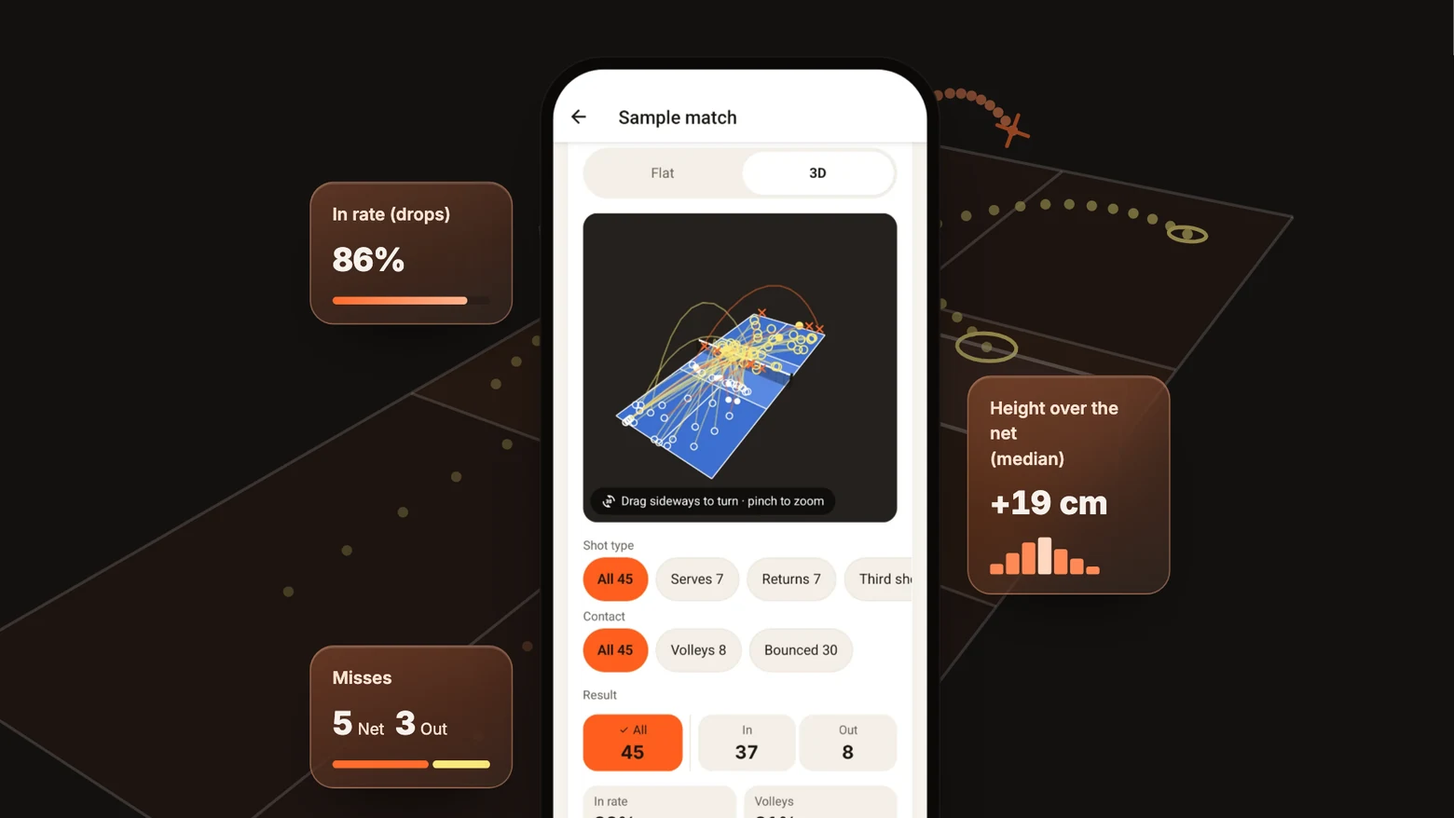
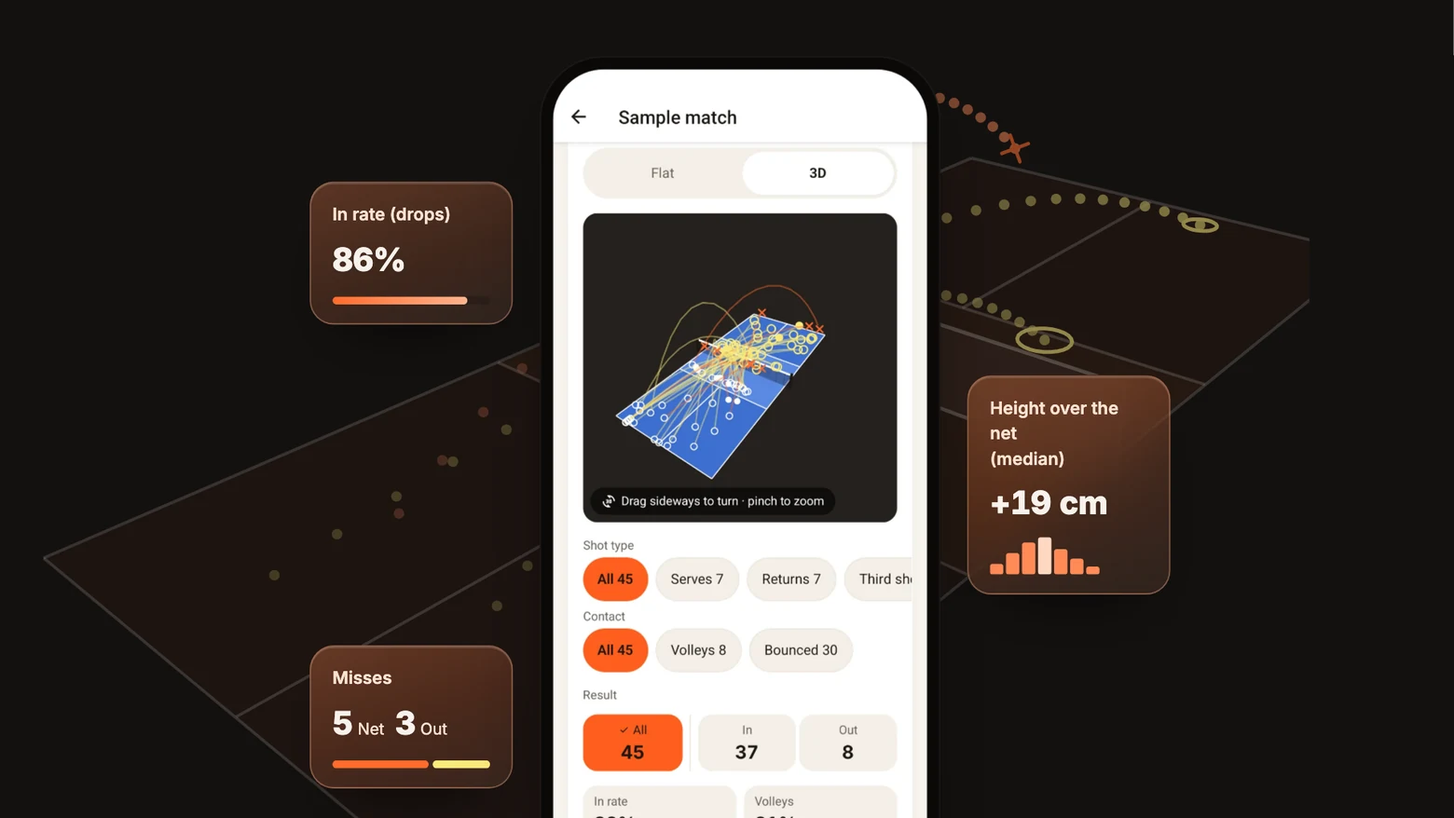
Pickle Up のページの冒頭のコートを、少し横から見る角度にして右へ寄せる（案 B1）。打球3本（ドロップ・右奥への深い球・奥へのアウト）は、スマホ・カード・文字・画面の端に隠れない位置に置き直す（1200〜1955px 幅で確認）。トップページのカードの画像も撮り直す
Claude-Session: https://claude.ai/code/session_01RcorTwHLSLi3TqpLhpw8hm

diff --git a/en/apps/pickle-up/index.html b/en/apps/pickle-up/index.html
@@ -27,7 +27,7 @@
 <link rel="preconnect" href="https://fonts.gstatic.com" crossorigin>
 <link href="https://fonts.googleapis.com/css2?family=Inter:wght@400;500;600;700;800&family=Noto+Sans+JP:wght@400;500;700;800&display=swap" rel="stylesheet">
 <link rel="stylesheet" href="https://cdnjs.cloudflare.com/ajax/libs/remixicon/4.6.0/remixicon.min.css">
-<link rel="stylesheet" href="/assets/css/apps/pickle-up.css?v=40">
+<link rel="stylesheet" href="/assets/css/apps/pickle-up.css?v=41">
 </head>
 <body class="page-home">
 <header class="app-header over-hero">
@@ -59,7 +59,7 @@
 </header>
 <main>
 <section class="hero">
-<svg class="court-lines hero-court" viewBox="0 0 1200 700" preserveAspectRatio="xMidYMid slice" aria-hidden="true" focusable="false"><path d="M258.6 474.0 L722.6 775.9 L1188.7 164.1 L897.6 106.5 Z" fill="#FF6B2C" fill-opacity=".07"/><path d="M589.3 283.8 L986.8 429.1 L1109.4 268.2 L769.8 180.0 Z" fill="#FF6B2C" fill-opacity=".07"/><line x1="259" y1="474" x2="723" y2="776" stroke="#F7F2EC" stroke-opacity=".28" stroke-width="2"/><line x1="898" y1="106" x2="1189" y2="164" stroke="#F7F2EC" stroke-opacity=".28" stroke-width="2"/><line x1="259" y1="474" x2="898" y2="106" stroke="#F7F2EC" stroke-opacity=".28" stroke-width="2"/><line x1="723" y1="776" x2="1189" y2="164" stroke="#F7F2EC" stroke-opacity=".28" stroke-width="2"/><line x1="589" y1="284" x2="987" y2="429" stroke="#F7F2EC" stroke-opacity=".28" stroke-width="2"/><line x1="770" y1="180" x2="1109" y2="268" stroke="#F7F2EC" stroke-opacity=".28" stroke-width="2"/><line x1="450" y1="598" x2="764" y2="348" stroke="#F7F2EC" stroke-opacity=".28" stroke-width="2"/><line x1="923" y1="220" x2="1032" y2="133" stroke="#F7F2EC" stroke-opacity=".28" stroke-width="2"/><g class="hero-shots"><circle class="start" cx="646.7" cy="277.7" r="3.6" fill="#FCE97A" fill-opacity="0.44"/><circle cx="660.6" cy="262.4" r="3.6" fill="#FCE97A" fill-opacity="0.45"/><circle cx="674.7" cy="248.3" r="3.6" fill="#FCE97A" fill-opacity="0.46"/><circle cx="688.8" cy="235.4" r="3.6" fill="#FCE97A" fill-opacity="0.46"/><circle cx="703.0" cy="223.8" r="3.6" fill="#FCE97A" fill-opacity="0.47"/><circle cx="717.2" cy="213.5" r="3.6" fill="#FCE97A" fill-opacity="0.48"/><circle cx="731.4" cy="204.4" r="3.6" fill="#FCE97A" fill-opacity="0.48"/><circle cx="745.6" cy="196.6" r="3.6" fill="#FCE97A" fill-opacity="0.49"/><circle cx="759.8" cy="190.1" r="3.6" fill="#FCE97A" fill-opacity="0.50"/><circle cx="773.8" cy="184.9" r="3.6" fill="#FCE97A" fill-opacity="0.50"/><circle cx="787.8" cy="180.9" r="3.6" fill="#FCE97A" fill-opacity="0.51"/><circle cx="801.6" cy="178.2" r="3.6" fill="#FCE97A" fill-opacity="0.52"/><circle cx="815.2" cy="176.6" r="3.6" fill="#FCE97A" fill-opacity="0.52"/><circle cx="828.7" cy="176.0" r="3.6" fill="#FCE97A" fill-opacity="0.53"/><circle cx="841.9" cy="176.5" r="3.6" fill="#FCE97A" fill-opacity="0.54"/><circle cx="855.0" cy="178.0" r="3.6" fill="#FCE97A" fill-opacity="0.54"/><circle cx="867.8" cy="180.5" r="3.6" fill="#FCE97A" fill-opacity="0.55"/><circle cx="880.3" cy="184.0" r="3.6" fill="#FCE97A" fill-opacity="0.56"/><circle cx="892.6" cy="188.4" r="3.6" fill="#FCE97A" fill-opacity="0.56"/><circle cx="904.7" cy="193.7" r="3.6" fill="#FCE97A" fill-opacity="0.57"/><circle cx="916.4" cy="199.8" r="3.6" fill="#FCE97A" fill-opacity="0.58"/><circle cx="927.8" cy="206.8" r="3.6" fill="#FCE97A" fill-opacity="0.59"/><circle cx="939.0" cy="214.5" r="3.6" fill="#FCE97A" fill-opacity="0.59"/><circle cx="949.8" cy="223.0" r="3.6" fill="#FCE97A" fill-opacity="0.60"/><circle cx="960.4" cy="232.2" r="3.6" fill="#FCE97A" fill-opacity="0.61"/><circle cx="970.6" cy="242.0" r="3.6" fill="#FCE97A" fill-opacity="0.62"/><circle cx="980.5" cy="252.5" r="3.6" fill="#FCE97A" fill-opacity="0.62"/><path class="mark" d="M999.0 257.5 L1000.4 255.2 L1000.6 252.7 L999.3 250.3 L996.8 248.0 L993.2 246.0 L988.8 244.5 L983.8 243.6 L978.7 243.2 L973.6 243.4 L969.0 244.3 L965.2 245.7 L962.3 247.6 L960.7 249.8 L960.4 252.2 L961.4 254.7 L963.8 257.0 L967.4 259.1 L971.8 260.7 L976.9 261.7 L982.3 262.1 L987.5 261.8 L992.3 260.9 L996.2 259.4 Z" fill="none" stroke="#FCE97A" stroke-width="2.6"/><circle class="start" cx="505.5" cy="418.9" r="3.6" fill="#FCE97A" fill-opacity="0.35"/><circle cx="545.3" cy="390.9" r="3.6" fill="#FCE97A" fill-opacity="0.36"/><circle cx="583.4" cy="364.9" r="3.6" fill="#FCE97A" fill-opacity="0.38"/><circle cx="619.7" cy="340.8" r="3.6" fill="#FCE97A" fill-opacity="0.39"/><circle cx="654.3" cy="318.6" r="3.6" fill="#FCE97A" fill-opacity="0.41"/><circle cx="687.4" cy="298.0" r="3.6" fill="#FCE97A" fill-opacity="0.42"/><circle cx="719.1" cy="279.0" r="3.6" fill="#FCE97A" fill-opacity="0.44"/><circle cx="749.2" cy="261.6" r="3.6" fill="#FCE97A" fill-opacity="0.45"/><circle cx="778.1" cy="245.6" r="3.6" fill="#FCE97A" fill-opacity="0.47"/><circle cx="805.6" cy="230.9" r="3.6" fill="#FCE97A" fill-opacity="0.48"/><circle cx="831.9" cy="217.6" r="3.6" fill="#FCE97A" fill-opacity="0.50"/><circle cx="857.0" cy="205.4" r="3.6" fill="#FCE97A" fill-opacity="0.52"/><circle cx="881.0" cy="194.3" r="3.6" fill="#FCE97A" fill-opacity="0.54"/><circle cx="903.9" cy="184.3" r="3.6" fill="#FCE97A" fill-opacity="0.55"/><circle cx="925.8" cy="175.7" r="3.6" fill="#FCE97A" fill-opacity="0.57"/><circle cx="946.7" cy="168.7" r="3.6" fill="#FCE97A" fill-opacity="0.59"/><circle cx="966.6" cy="163.3" r="3.6" fill="#FCE97A" fill-opacity="0.61"/><circle cx="985.5" cy="159.4" r="3.6" fill="#FCE97A" fill-opacity="0.63"/><circle cx="1003.4" cy="156.8" r="3.6" fill="#FCE97A" fill-opacity="0.65"/><circle cx="1020.5" cy="155.5" r="3.6" fill="#FCE97A" fill-opacity="0.67"/><circle cx="1036.7" cy="155.4" r="3.6" fill="#FCE97A" fill-opacity="0.69"/><circle cx="1052.0" cy="156.5" r="3.6" fill="#FCE97A" fill-opacity="0.71"/><circle cx="1066.5" cy="158.5" r="3.6" fill="#FCE97A" fill-opacity="0.73"/><circle cx="1080.3" cy="161.6" r="3.6" fill="#FCE97A" fill-opacity="0.75"/><circle cx="1093.3" cy="165.5" r="3.6" fill="#FCE97A" fill-opacity="0.77"/><circle cx="1105.5" cy="170.3" r="3.6" fill="#FCE97A" fill-opacity="0.79"/><circle cx="1117.1" cy="175.8" r="3.6" fill="#FCE97A" fill-opacity="0.81"/><path class="mark" d="M1129.3 178.4 L1129.9 177.2 L1129.5 176.0 L1128.4 174.7 L1126.4 173.5 L1123.9 172.5 L1120.9 171.7 L1117.6 171.2 L1114.3 171.0 L1111.2 171.1 L1108.5 171.5 L1106.4 172.3 L1105.0 173.3 L1104.4 174.4 L1104.6 175.7 L1105.7 177.0 L1107.6 178.2 L1110.1 179.3 L1113.2 180.1 L1116.5 180.6 L1119.9 180.8 L1123.0 180.7 L1125.8 180.2 L1127.9 179.4 Z" fill="none" stroke="#FCE97A" stroke-width="2.6"/><circle class="start" cx="597.3" cy="586.1" r="3.6" fill="#FF8A57" fill-opacity="0.32"/><circle cx="634.4" cy="517.0" r="3.6" fill="#FF8A57" fill-opacity="0.34"/><circle cx="668.1" cy="456.1" r="3.6" fill="#FF8A57" fill-opacity="0.35"/><circle cx="698.8" cy="402.4" r="3.6" fill="#FF8A57" fill-opacity="0.37"/><circle cx="726.7" cy="354.9" r="3.6" fill="#FF8A57" fill-opacity="0.39"/><circle cx="752.3" cy="313.1" r="3.6" fill="#FF8A57" fill-opacity="0.41"/><circle cx="775.6" cy="276.1" r="3.6" fill="#FF8A57" fill-opacity="0.43"/><circle cx="797.1" cy="243.6" r="3.6" fill="#FF8A57" fill-opacity="0.45"/><circle cx="816.8" cy="215.0" r="3.6" fill="#FF8A57" fill-opacity="0.47"/><circle cx="834.9" cy="189.9" r="3.6" fill="#FF8A57" fill-opacity="0.49"/><circle cx="851.7" cy="167.9" r="3.6" fill="#FF8A57" fill-opacity="0.51"/><circle cx="867.1" cy="148.8" r="3.6" fill="#FF8A57" fill-opacity="0.54"/><circle cx="881.4" cy="132.2" r="3.6" fill="#FF8A57" fill-opacity="0.56"/><circle cx="894.6" cy="117.8" r="3.6" fill="#FF8A57" fill-opacity="0.58"/><circle cx="906.8" cy="105.9" r="3.6" fill="#FF8A57" fill-opacity="0.61"/><circle cx="918.1" cy="96.6" r="3.6" fill="#FF8A57" fill-opacity="0.63"/><circle cx="928.6" cy="89.5" r="3.6" fill="#FF8A57" fill-opacity="0.66"/><circle cx="938.2" cy="84.5" r="3.6" fill="#FF8A57" fill-opacity="0.68"/><circle cx="947.2" cy="81.4" r="3.6" fill="#FF8A57" fill-opacity="0.71"/><circle cx="955.5" cy="80.0" r="3.6" fill="#FF8A57" fill-opacity="0.74"/><circle cx="963.1" cy="80.1" r="3.6" fill="#FF8A57" fill-opacity="0.76"/><circle cx="970.2" cy="81.6" r="3.6" fill="#FF8A57" fill-opacity="0.79"/><circle cx="976.7" cy="84.3" r="3.6" fill="#FF8A57" fill-opacity="0.82"/><circle cx="982.7" cy="88.1" r="3.6" fill="#FF8A57" fill-opacity="0.85"/><circle cx="988.3" cy="93.0" r="3.6" fill="#FF8A57" fill-opacity="0.88"/><circle cx="993.4" cy="98.7" r="3.6" fill="#FF8A57" fill-opacity="0.90"/><circle cx="998.2" cy="105.3" r="3.6" fill="#FF8A57" fill-opacity="0.93"/><path class="mark" d="M987.7 101.5 L1008.7 109.1 M994.3 115.8 L1002.0 94.8" stroke="#FF6B2C" stroke-width="2.6" stroke-linecap="round"/></g><path d="M682.3 223.9 L677.1 170.9 L1075.6 278.4 L1067.8 341.0 Z" fill="#F7F2EC" fill-opacity=".06" stroke="#F7F2EC" stroke-opacity=".4" stroke-width="2.5" stroke-linejoin="round"/></svg>
+<svg class="court-lines hero-court" viewBox="0 0 1200 700" preserveAspectRatio="xMidYMid slice" aria-hidden="true" focusable="false"><path d="M339.5 396.5 L657.6 660.5 L1239.0 188.6 L969.9 124.4 Z" fill="#FF6B2C" fill-opacity=".07"/><path d="M647.8 263.4 L968.9 407.8 L1129.3 277.6 L831.9 183.9 Z" fill="#FF6B2C" fill-opacity=".07"/><line x1="339" y1="396" x2="658" y2="661" stroke="#F7F2EC" stroke-opacity=".28" stroke-width="2"/><line x1="970" y1="124" x2="1239" y2="189" stroke="#F7F2EC" stroke-opacity=".28" stroke-width="2"/><line x1="339" y1="396" x2="970" y2="124" stroke="#F7F2EC" stroke-opacity=".28" stroke-width="2"/><line x1="658" y1="661" x2="1239" y2="189" stroke="#F7F2EC" stroke-opacity=".28" stroke-width="2"/><line x1="648" y1="263" x2="969" y2="408" stroke="#F7F2EC" stroke-opacity=".28" stroke-width="2"/><line x1="832" y1="184" x2="1129" y2="278" stroke="#F7F2EC" stroke-opacity=".28" stroke-width="2"/><line x1="470" y1="504" x2="787" y2="326" stroke="#F7F2EC" stroke-opacity=".28" stroke-width="2"/><line x1="964" y1="226" x2="1092" y2="154" stroke="#F7F2EC" stroke-opacity=".28" stroke-width="2"/><g class="hero-shots"><circle class="start" cx="647.4" cy="428.6" r="3.6" fill="#FCE97A" fill-opacity="0.35"/><circle cx="668.1" cy="401.3" r="3.6" fill="#FCE97A" fill-opacity="0.36"/><circle cx="688.4" cy="376.1" r="3.6" fill="#FCE97A" fill-opacity="0.37"/><circle cx="708.2" cy="353.0" r="3.6" fill="#FCE97A" fill-opacity="0.38"/><circle cx="727.5" cy="332.1" r="3.6" fill="#FCE97A" fill-opacity="0.39"/><circle cx="746.3" cy="313.1" r="3.6" fill="#FCE97A" fill-opacity="0.40"/><circle cx="764.6" cy="296.1" r="3.6" fill="#FCE97A" fill-opacity="0.41"/><circle cx="782.4" cy="281.0" r="3.6" fill="#FCE97A" fill-opacity="0.42"/><circle cx="799.6" cy="267.7" r="3.6" fill="#FCE97A" fill-opacity="0.43"/><circle cx="816.3" cy="256.2" r="3.6" fill="#FCE97A" fill-opacity="0.44"/><circle cx="832.4" cy="246.4" r="3.6" fill="#FCE97A" fill-opacity="0.45"/><circle cx="847.9" cy="238.1" r="3.6" fill="#FCE97A" fill-opacity="0.46"/><circle cx="862.9" cy="231.3" r="3.6" fill="#FCE97A" fill-opacity="0.47"/><circle cx="877.4" cy="225.8" r="3.6" fill="#FCE97A" fill-opacity="0.48"/><circle cx="891.3" cy="221.6" r="3.6" fill="#FCE97A" fill-opacity="0.49"/><circle cx="904.7" cy="218.6" r="3.6" fill="#FCE97A" fill-opacity="0.50"/><circle cx="917.5" cy="216.7" r="3.6" fill="#FCE97A" fill-opacity="0.52"/><circle cx="929.9" cy="216.0" r="3.6" fill="#FCE97A" fill-opacity="0.53"/><circle cx="941.7" cy="216.2" r="3.6" fill="#FCE97A" fill-opacity="0.54"/><circle cx="953.0" cy="217.4" r="3.6" fill="#FCE97A" fill-opacity="0.55"/><circle cx="963.9" cy="219.4" r="3.6" fill="#FCE97A" fill-opacity="0.56"/><circle cx="974.3" cy="222.4" r="3.6" fill="#FCE97A" fill-opacity="0.58"/><circle cx="984.3" cy="226.1" r="3.6" fill="#FCE97A" fill-opacity="0.59"/><circle cx="993.8" cy="230.5" r="3.6" fill="#FCE97A" fill-opacity="0.60"/><circle cx="1002.9" cy="235.6" r="3.6" fill="#FCE97A" fill-opacity="0.62"/><circle cx="1011.6" cy="241.4" r="3.6" fill="#FCE97A" fill-opacity="0.63"/><circle cx="1019.9" cy="247.8" r="3.6" fill="#FCE97A" fill-opacity="0.64"/><path class="mark" d="M1035.9 252.9 L1037.9 251.0 L1038.6 249.0 L1038.0 246.9 L1036.2 244.8 L1033.4 243.0 L1029.6 241.5 L1025.2 240.5 L1020.5 239.9 L1015.7 239.9 L1011.2 240.4 L1007.3 241.3 L1004.2 242.8 L1002.2 244.5 L1001.3 246.6 L1001.7 248.7 L1003.3 250.7 L1006.1 252.6 L1009.9 254.2 L1014.4 255.3 L1019.3 255.9 L1024.2 255.9 L1028.8 255.4 L1032.8 254.4 Z" fill="none" stroke="#FCE97A" stroke-width="2.6"/><circle class="start" cx="496.0" cy="407.7" r="3.6" fill="#FCE97A" fill-opacity="0.33"/><circle cx="538.6" cy="379.8" r="3.6" fill="#FCE97A" fill-opacity="0.34"/><circle cx="579.0" cy="354.1" r="3.6" fill="#FCE97A" fill-opacity="0.36"/><circle cx="617.4" cy="330.5" r="3.6" fill="#FCE97A" fill-opacity="0.37"/><circle cx="653.8" cy="308.7" r="3.6" fill="#FCE97A" fill-opacity="0.39"/><circle cx="688.3" cy="288.7" r="3.6" fill="#FCE97A" fill-opacity="0.40"/><circle cx="721.1" cy="270.3" r="3.6" fill="#FCE97A" fill-opacity="0.42"/><circle cx="752.3" cy="253.5" r="3.6" fill="#FCE97A" fill-opacity="0.44"/><circle cx="782.0" cy="238.1" r="3.6" fill="#FCE97A" fill-opacity="0.46"/><circle cx="810.2" cy="224.0" r="3.6" fill="#FCE97A" fill-opacity="0.48"/><circle cx="837.0" cy="211.2" r="3.6" fill="#FCE97A" fill-opacity="0.50"/><circle cx="862.6" cy="199.6" r="3.6" fill="#FCE97A" fill-opacity="0.51"/><circle cx="886.9" cy="189.1" r="3.6" fill="#FCE97A" fill-opacity="0.53"/><circle cx="910.1" cy="179.6" r="3.6" fill="#FCE97A" fill-opacity="0.56"/><circle cx="932.3" cy="171.4" r="3.6" fill="#FCE97A" fill-opacity="0.58"/><circle cx="953.3" cy="164.7" r="3.6" fill="#FCE97A" fill-opacity="0.60"/><circle cx="973.3" cy="159.6" r="3.6" fill="#FCE97A" fill-opacity="0.62"/><circle cx="992.4" cy="155.7" r="3.6" fill="#FCE97A" fill-opacity="0.64"/><circle cx="1010.5" cy="153.2" r="3.6" fill="#FCE97A" fill-opacity="0.66"/><circle cx="1027.7" cy="151.8" r="3.6" fill="#FCE97A" fill-opacity="0.69"/><circle cx="1044.1" cy="151.6" r="3.6" fill="#FCE97A" fill-opacity="0.71"/><circle cx="1059.6" cy="152.4" r="3.6" fill="#FCE97A" fill-opacity="0.73"/><circle cx="1074.3" cy="154.2" r="3.6" fill="#FCE97A" fill-opacity="0.75"/><circle cx="1088.2" cy="156.8" r="3.6" fill="#FCE97A" fill-opacity="0.78"/><circle cx="1101.4" cy="160.3" r="3.6" fill="#FCE97A" fill-opacity="0.80"/><circle cx="1113.9" cy="164.6" r="3.6" fill="#FCE97A" fill-opacity="0.83"/><circle cx="1125.7" cy="169.5" r="3.6" fill="#FCE97A" fill-opacity="0.85"/><path class="mark" d="M1136.1 172.0 L1137.0 171.1 L1137.2 170.1 L1136.6 169.1 L1135.2 168.1 L1133.2 167.1 L1130.7 166.4 L1127.9 165.9 L1125.0 165.6 L1122.1 165.6 L1119.4 165.8 L1117.2 166.3 L1115.5 167.0 L1114.5 167.9 L1114.3 168.9 L1114.9 170.0 L1116.2 171.0 L1118.2 171.9 L1120.7 172.7 L1123.5 173.2 L1126.5 173.5 L1129.5 173.6 L1132.2 173.3 L1134.5 172.8 Z" fill="none" stroke="#FCE97A" stroke-width="2.6"/><circle class="start" cx="580.7" cy="365.7" r="3.6" fill="#FF8A57" fill-opacity="0.36"/><circle cx="610.2" cy="329.6" r="3.6" fill="#FF8A57" fill-opacity="0.37"/><circle cx="638.1" cy="296.8" r="3.6" fill="#FF8A57" fill-opacity="0.39"/><circle cx="664.5" cy="267.1" r="3.6" fill="#FF8A57" fill-opacity="0.41"/><circle cx="689.4" cy="240.3" r="3.6" fill="#FF8A57" fill-opacity="0.42"/><circle cx="713.0" cy="216.1" r="3.6" fill="#FF8A57" fill-opacity="0.44"/><circle cx="735.4" cy="194.4" r="3.6" fill="#FF8A57" fill-opacity="0.46"/><circle cx="756.5" cy="175.0" r="3.6" fill="#FF8A57" fill-opacity="0.48"/><circle cx="776.5" cy="157.7" r="3.6" fill="#FF8A57" fill-opacity="0.50"/><circle cx="795.5" cy="142.4" r="3.6" fill="#FF8A57" fill-opacity="0.52"/><circle cx="813.4" cy="128.9" r="3.6" fill="#FF8A57" fill-opacity="0.54"/><circle cx="830.4" cy="117.1" r="3.6" fill="#FF8A57" fill-opacity="0.56"/><circle cx="846.6" cy="106.9" r="3.6" fill="#FF8A57" fill-opacity="0.58"/><circle cx="861.8" cy="98.1" r="3.6" fill="#FF8A57" fill-opacity="0.60"/><circle cx="876.3" cy="91.1" r="3.6" fill="#FF8A57" fill-opacity="0.63"/><circle cx="890.0" cy="85.8" r="3.6" fill="#FF8A57" fill-opacity="0.65"/><circle cx="903.1" cy="82.4" r="3.6" fill="#FF8A57" fill-opacity="0.67"/><circle cx="915.4" cy="80.5" r="3.6" fill="#FF8A57" fill-opacity="0.69"/><circle cx="927.0" cy="80.1" r="3.6" fill="#FF8A57" fill-opacity="0.72"/><circle cx="938.0" cy="81.0" r="3.6" fill="#FF8A57" fill-opacity="0.74"/><circle cx="948.5" cy="83.2" r="3.6" fill="#FF8A57" fill-opacity="0.77"/><circle cx="958.3" cy="86.6" r="3.6" fill="#FF8A57" fill-opacity="0.79"/><circle cx="967.6" cy="91.0" r="3.6" fill="#FF8A57" fill-opacity="0.81"/><circle cx="976.4" cy="96.4" r="3.6" fill="#FF8A57" fill-opacity="0.84"/><circle cx="984.7" cy="102.6" r="3.6" fill="#FF8A57" fill-opacity="0.86"/><circle cx="992.5" cy="109.7" r="3.6" fill="#FF8A57" fill-opacity="0.89"/><circle cx="999.8" cy="117.5" r="3.6" fill="#FF8A57" fill-opacity="0.92"/><path class="mark" d="M996.5 108.4 L1003.1 126.5 M990.8 120.8 L1008.9 114.2" stroke="#FF6B2C" stroke-width="2.4" stroke-linecap="round"/></g><path d="M742.6 217.7 L738.7 168.4 L1074.1 278.3 L1068.6 338.5 Z" fill="#F7F2EC" fill-opacity=".06" stroke="#F7F2EC" stroke-opacity=".4" stroke-width="2.5" stroke-linejoin="round"/></svg>
 <div class="wrap hero-grid">
 <div class="hero-copy">
 <p class="hero-app"><img src="/images/apps/pickle-up/icon-128.png" alt="" width="40" height="40"><span lang="en">Pickle Up</span></p>
@@ -182,11 +182,11 @@
 </div>
 </div>
 </footer>
-<script src="/assets/js/app-menu.js?v=40" defer></script>
-<script src="/assets/js/app-lang.js?v=40" defer></script>
+<script src="/assets/js/app-menu.js?v=41" defer></script>
+<script src="/assets/js/app-lang.js?v=41" defer></script>
 <script>document.querySelectorAll('[data-year]').forEach(function (el) { el.textContent = new Date().getFullYear(); });</script>
-<script src="/assets/js/app-carousel.js?v=40" defer></script>
-<script src="/assets/js/app-audio.js?v=40" defer></script>
-<script src="/assets/js/app-swipe.js?v=40" defer></script>
+<script src="/assets/js/app-carousel.js?v=41" defer></script>
+<script src="/assets/js/app-audio.js?v=41" defer></script>
+<script src="/assets/js/app-swipe.js?v=41" defer></script>
 </body>
 </html>

diff --git a/ja/apps/pickle-up/index.html b/ja/apps/pickle-up/index.html
@@ -27,7 +27,7 @@
 <link rel="preconnect" href="https://fonts.gstatic.com" crossorigin>
 <link href="https://fonts.googleapis.com/css2?family=Inter:wght@400;500;600;700;800&family=Noto+Sans+JP:wght@400;500;700;800&display=swap" rel="stylesheet">
 <link rel="stylesheet" href="https://cdnjs.cloudflare.com/ajax/libs/remixicon/4.6.0/remixicon.min.css">
-<link rel="stylesheet" href="/assets/css/apps/pickle-up.css?v=40">
+<link rel="stylesheet" href="/assets/css/apps/pickle-up.css?v=41">
 </head>
 <body class="page-home">
 <header class="app-header over-hero">
@@ -59,7 +59,7 @@
 </header>
 <main>
 <section class="hero">
-<svg class="court-lines hero-court" viewBox="0 0 1200 700" preserveAspectRatio="xMidYMid slice" aria-hidden="true" focusable="false"><path d="M258.6 474.0 L722.6 775.9 L1188.7 164.1 L897.6 106.5 Z" fill="#FF6B2C" fill-opacity=".07"/><path d="M589.3 283.8 L986.8 429.1 L1109.4 268.2 L769.8 180.0 Z" fill="#FF6B2C" fill-opacity=".07"/><line x1="259" y1="474" x2="723" y2="776" stroke="#F7F2EC" stroke-opacity=".28" stroke-width="2"/><line x1="898" y1="106" x2="1189" y2="164" stroke="#F7F2EC" stroke-opacity=".28" stroke-width="2"/><line x1="259" y1="474" x2="898" y2="106" stroke="#F7F2EC" stroke-opacity=".28" stroke-width="2"/><line x1="723" y1="776" x2="1189" y2="164" stroke="#F7F2EC" stroke-opacity=".28" stroke-width="2"/><line x1="589" y1="284" x2="987" y2="429" stroke="#F7F2EC" stroke-opacity=".28" stroke-width="2"/><line x1="770" y1="180" x2="1109" y2="268" stroke="#F7F2EC" stroke-opacity=".28" stroke-width="2"/><line x1="450" y1="598" x2="764" y2="348" stroke="#F7F2EC" stroke-opacity=".28" stroke-width="2"/><line x1="923" y1="220" x2="1032" y2="133" stroke="#F7F2EC" stroke-opacity=".28" stroke-width="2"/><g class="hero-shots"><circle class="start" cx="646.7" cy="277.7" r="3.6" fill="#FCE97A" fill-opacity="0.44"/><circle cx="660.6" cy="262.4" r="3.6" fill="#FCE97A" fill-opacity="0.45"/><circle cx="674.7" cy="248.3" r="3.6" fill="#FCE97A" fill-opacity="0.46"/><circle cx="688.8" cy="235.4" r="3.6" fill="#FCE97A" fill-opacity="0.46"/><circle cx="703.0" cy="223.8" r="3.6" fill="#FCE97A" fill-opacity="0.47"/><circle cx="717.2" cy="213.5" r="3.6" fill="#FCE97A" fill-opacity="0.48"/><circle cx="731.4" cy="204.4" r="3.6" fill="#FCE97A" fill-opacity="0.48"/><circle cx="745.6" cy="196.6" r="3.6" fill="#FCE97A" fill-opacity="0.49"/><circle cx="759.8" cy="190.1" r="3.6" fill="#FCE97A" fill-opacity="0.50"/><circle cx="773.8" cy="184.9" r="3.6" fill="#FCE97A" fill-opacity="0.50"/><circle cx="787.8" cy="180.9" r="3.6" fill="#FCE97A" fill-opacity="0.51"/><circle cx="801.6" cy="178.2" r="3.6" fill="#FCE97A" fill-opacity="0.52"/><circle cx="815.2" cy="176.6" r="3.6" fill="#FCE97A" fill-opacity="0.52"/><circle cx="828.7" cy="176.0" r="3.6" fill="#FCE97A" fill-opacity="0.53"/><circle cx="841.9" cy="176.5" r="3.6" fill="#FCE97A" fill-opacity="0.54"/><circle cx="855.0" cy="178.0" r="3.6" fill="#FCE97A" fill-opacity="0.54"/><circle cx="867.8" cy="180.5" r="3.6" fill="#FCE97A" fill-opacity="0.55"/><circle cx="880.3" cy="184.0" r="3.6" fill="#FCE97A" fill-opacity="0.56"/><circle cx="892.6" cy="188.4" r="3.6" fill="#FCE97A" fill-opacity="0.56"/><circle cx="904.7" cy="193.7" r="3.6" fill="#FCE97A" fill-opacity="0.57"/><circle cx="916.4" cy="199.8" r="3.6" fill="#FCE97A" fill-opacity="0.58"/><circle cx="927.8" cy="206.8" r="3.6" fill="#FCE97A" fill-opacity="0.59"/><circle cx="939.0" cy="214.5" r="3.6" fill="#FCE97A" fill-opacity="0.59"/><circle cx="949.8" cy="223.0" r="3.6" fill="#FCE97A" fill-opacity="0.60"/><circle cx="960.4" cy="232.2" r="3.6" fill="#FCE97A" fill-opacity="0.61"/><circle cx="970.6" cy="242.0" r="3.6" fill="#FCE97A" fill-opacity="0.62"/><circle cx="980.5" cy="252.5" r="3.6" fill="#FCE97A" fill-opacity="0.62"/><path class="mark" d="M999.0 257.5 L1000.4 255.2 L1000.6 252.7 L999.3 250.3 L996.8 248.0 L993.2 246.0 L988.8 244.5 L983.8 243.6 L978.7 243.2 L973.6 243.4 L969.0 244.3 L965.2 245.7 L962.3 247.6 L960.7 249.8 L960.4 252.2 L961.4 254.7 L963.8 257.0 L967.4 259.1 L971.8 260.7 L976.9 261.7 L982.3 262.1 L987.5 261.8 L992.3 260.9 L996.2 259.4 Z" fill="none" stroke="#FCE97A" stroke-width="2.6"/><circle class="start" cx="505.5" cy="418.9" r="3.6" fill="#FCE97A" fill-opacity="0.35"/><circle cx="545.3" cy="390.9" r="3.6" fill="#FCE97A" fill-opacity="0.36"/><circle cx="583.4" cy="364.9" r="3.6" fill="#FCE97A" fill-opacity="0.38"/><circle cx="619.7" cy="340.8" r="3.6" fill="#FCE97A" fill-opacity="0.39"/><circle cx="654.3" cy="318.6" r="3.6" fill="#FCE97A" fill-opacity="0.41"/><circle cx="687.4" cy="298.0" r="3.6" fill="#FCE97A" fill-opacity="0.42"/><circle cx="719.1" cy="279.0" r="3.6" fill="#FCE97A" fill-opacity="0.44"/><circle cx="749.2" cy="261.6" r="3.6" fill="#FCE97A" fill-opacity="0.45"/><circle cx="778.1" cy="245.6" r="3.6" fill="#FCE97A" fill-opacity="0.47"/><circle cx="805.6" cy="230.9" r="3.6" fill="#FCE97A" fill-opacity="0.48"/><circle cx="831.9" cy="217.6" r="3.6" fill="#FCE97A" fill-opacity="0.50"/><circle cx="857.0" cy="205.4" r="3.6" fill="#FCE97A" fill-opacity="0.52"/><circle cx="881.0" cy="194.3" r="3.6" fill="#FCE97A" fill-opacity="0.54"/><circle cx="903.9" cy="184.3" r="3.6" fill="#FCE97A" fill-opacity="0.55"/><circle cx="925.8" cy="175.7" r="3.6" fill="#FCE97A" fill-opacity="0.57"/><circle cx="946.7" cy="168.7" r="3.6" fill="#FCE97A" fill-opacity="0.59"/><circle cx="966.6" cy="163.3" r="3.6" fill="#FCE97A" fill-opacity="0.61"/><circle cx="985.5" cy="159.4" r="3.6" fill="#FCE97A" fill-opacity="0.63"/><circle cx="1003.4" cy="156.8" r="3.6" fill="#FCE97A" fill-opacity="0.65"/><circle cx="1020.5" cy="155.5" r="3.6" fill="#FCE97A" fill-opacity="0.67"/><circle cx="1036.7" cy="155.4" r="3.6" fill="#FCE97A" fill-opacity="0.69"/><circle cx="1052.0" cy="156.5" r="3.6" fill="#FCE97A" fill-opacity="0.71"/><circle cx="1066.5" cy="158.5" r="3.6" fill="#FCE97A" fill-opacity="0.73"/><circle cx="1080.3" cy="161.6" r="3.6" fill="#FCE97A" fill-opacity="0.75"/><circle cx="1093.3" cy="165.5" r="3.6" fill="#FCE97A" fill-opacity="0.77"/><circle cx="1105.5" cy="170.3" r="3.6" fill="#FCE97A" fill-opacity="0.79"/><circle cx="1117.1" cy="175.8" r="3.6" fill="#FCE97A" fill-opacity="0.81"/><path class="mark" d="M1129.3 178.4 L1129.9 177.2 L1129.5 176.0 L1128.4 174.7 L1126.4 173.5 L1123.9 172.5 L1120.9 171.7 L1117.6 171.2 L1114.3 171.0 L1111.2 171.1 L1108.5 171.5 L1106.4 172.3 L1105.0 173.3 L1104.4 174.4 L1104.6 175.7 L1105.7 177.0 L1107.6 178.2 L1110.1 179.3 L1113.2 180.1 L1116.5 180.6 L1119.9 180.8 L1123.0 180.7 L1125.8 180.2 L1127.9 179.4 Z" fill="none" stroke="#FCE97A" stroke-width="2.6"/><circle class="start" cx="597.3" cy="586.1" r="3.6" fill="#FF8A57" fill-opacity="0.32"/><circle cx="634.4" cy="517.0" r="3.6" fill="#FF8A57" fill-opacity="0.34"/><circle cx="668.1" cy="456.1" r="3.6" fill="#FF8A57" fill-opacity="0.35"/><circle cx="698.8" cy="402.4" r="3.6" fill="#FF8A57" fill-opacity="0.37"/><circle cx="726.7" cy="354.9" r="3.6" fill="#FF8A57" fill-opacity="0.39"/><circle cx="752.3" cy="313.1" r="3.6" fill="#FF8A57" fill-opacity="0.41"/><circle cx="775.6" cy="276.1" r="3.6" fill="#FF8A57" fill-opacity="0.43"/><circle cx="797.1" cy="243.6" r="3.6" fill="#FF8A57" fill-opacity="0.45"/><circle cx="816.8" cy="215.0" r="3.6" fill="#FF8A57" fill-opacity="0.47"/><circle cx="834.9" cy="189.9" r="3.6" fill="#FF8A57" fill-opacity="0.49"/><circle cx="851.7" cy="167.9" r="3.6" fill="#FF8A57" fill-opacity="0.51"/><circle cx="867.1" cy="148.8" r="3.6" fill="#FF8A57" fill-opacity="0.54"/><circle cx="881.4" cy="132.2" r="3.6" fill="#FF8A57" fill-opacity="0.56"/><circle cx="894.6" cy="117.8" r="3.6" fill="#FF8A57" fill-opacity="0.58"/><circle cx="906.8" cy="105.9" r="3.6" fill="#FF8A57" fill-opacity="0.61"/><circle cx="918.1" cy="96.6" r="3.6" fill="#FF8A57" fill-opacity="0.63"/><circle cx="928.6" cy="89.5" r="3.6" fill="#FF8A57" fill-opacity="0.66"/><circle cx="938.2" cy="84.5" r="3.6" fill="#FF8A57" fill-opacity="0.68"/><circle cx="947.2" cy="81.4" r="3.6" fill="#FF8A57" fill-opacity="0.71"/><circle cx="955.5" cy="80.0" r="3.6" fill="#FF8A57" fill-opacity="0.74"/><circle cx="963.1" cy="80.1" r="3.6" fill="#FF8A57" fill-opacity="0.76"/><circle cx="970.2" cy="81.6" r="3.6" fill="#FF8A57" fill-opacity="0.79"/><circle cx="976.7" cy="84.3" r="3.6" fill="#FF8A57" fill-opacity="0.82"/><circle cx="982.7" cy="88.1" r="3.6" fill="#FF8A57" fill-opacity="0.85"/><circle cx="988.3" cy="93.0" r="3.6" fill="#FF8A57" fill-opacity="0.88"/><circle cx="993.4" cy="98.7" r="3.6" fill="#FF8A57" fill-opacity="0.90"/><circle cx="998.2" cy="105.3" r="3.6" fill="#FF8A57" fill-opacity="0.93"/><path class="mark" d="M987.7 101.5 L1008.7 109.1 M994.3 115.8 L1002.0 94.8" stroke="#FF6B2C" stroke-width="2.6" stroke-linecap="round"/></g><path d="M682.3 223.9 L677.1 170.9 L1075.6 278.4 L1067.8 341.0 Z" fill="#F7F2EC" fill-opacity=".06" stroke="#F7F2EC" stroke-opacity=".4" stroke-width="2.5" stroke-linejoin="round"/></svg>
+<svg class="court-lines hero-court" viewBox="0 0 1200 700" preserveAspectRatio="xMidYMid slice" aria-hidden="true" focusable="false"><path d="M339.5 396.5 L657.6 660.5 L1239.0 188.6 L969.9 124.4 Z" fill="#FF6B2C" fill-opacity=".07"/><path d="M647.8 263.4 L968.9 407.8 L1129.3 277.6 L831.9 183.9 Z" fill="#FF6B2C" fill-opacity=".07"/><line x1="339" y1="396" x2="658" y2="661" stroke="#F7F2EC" stroke-opacity=".28" stroke-width="2"/><line x1="970" y1="124" x2="1239" y2="189" stroke="#F7F2EC" stroke-opacity=".28" stroke-width="2"/><line x1="339" y1="396" x2="970" y2="124" stroke="#F7F2EC" stroke-opacity=".28" stroke-width="2"/><line x1="658" y1="661" x2="1239" y2="189" stroke="#F7F2EC" stroke-opacity=".28" stroke-width="2"/><line x1="648" y1="263" x2="969" y2="408" stroke="#F7F2EC" stroke-opacity=".28" stroke-width="2"/><line x1="832" y1="184" x2="1129" y2="278" stroke="#F7F2EC" stroke-opacity=".28" stroke-width="2"/><line x1="470" y1="504" x2="787" y2="326" stroke="#F7F2EC" stroke-opacity=".28" stroke-width="2"/><line x1="964" y1="226" x2="1092" y2="154" stroke="#F7F2EC" stroke-opacity=".28" stroke-width="2"/><g class="hero-shots"><circle class="start" cx="647.4" cy="428.6" r="3.6" fill="#FCE97A" fill-opacity="0.35"/><circle cx="668.1" cy="401.3" r="3.6" fill="#FCE97A" fill-opacity="0.36"/><circle cx="688.4" cy="376.1" r="3.6" fill="#FCE97A" fill-opacity="0.37"/><circle cx="708.2" cy="353.0" r="3.6" fill="#FCE97A" fill-opacity="0.38"/><circle cx="727.5" cy="332.1" r="3.6" fill="#FCE97A" fill-opacity="0.39"/><circle cx="746.3" cy="313.1" r="3.6" fill="#FCE97A" fill-opacity="0.40"/><circle cx="764.6" cy="296.1" r="3.6" fill="#FCE97A" fill-opacity="0.41"/><circle cx="782.4" cy="281.0" r="3.6" fill="#FCE97A" fill-opacity="0.42"/><circle cx="799.6" cy="267.7" r="3.6" fill="#FCE97A" fill-opacity="0.43"/><circle cx="816.3" cy="256.2" r="3.6" fill="#FCE97A" fill-opacity="0.44"/><circle cx="832.4" cy="246.4" r="3.6" fill="#FCE97A" fill-opacity="0.45"/><circle cx="847.9" cy="238.1" r="3.6" fill="#FCE97A" fill-opacity="0.46"/><circle cx="862.9" cy="231.3" r="3.6" fill="#FCE97A" fill-opacity="0.47"/><circle cx="877.4" cy="225.8" r="3.6" fill="#FCE97A" fill-opacity="0.48"/><circle cx="891.3" cy="221.6" r="3.6" fill="#FCE97A" fill-opacity="0.49"/><circle cx="904.7" cy="218.6" r="3.6" fill="#FCE97A" fill-opacity="0.50"/><circle cx="917.5" cy="216.7" r="3.6" fill="#FCE97A" fill-opacity="0.52"/><circle cx="929.9" cy="216.0" r="3.6" fill="#FCE97A" fill-opacity="0.53"/><circle cx="941.7" cy="216.2" r="3.6" fill="#FCE97A" fill-opacity="0.54"/><circle cx="953.0" cy="217.4" r="3.6" fill="#FCE97A" fill-opacity="0.55"/><circle cx="963.9" cy="219.4" r="3.6" fill="#FCE97A" fill-opacity="0.56"/><circle cx="974.3" cy="222.4" r="3.6" fill="#FCE97A" fill-opacity="0.58"/><circle cx="984.3" cy="226.1" r="3.6" fill="#FCE97A" fill-opacity="0.59"/><circle cx="993.8" cy="230.5" r="3.6" fill="#FCE97A" fill-opacity="0.60"/><circle cx="1002.9" cy="235.6" r="3.6" fill="#FCE97A" fill-opacity="0.62"/><circle cx="1011.6" cy="241.4" r="3.6" fill="#FCE97A" fill-opacity="0.63"/><circle cx="1019.9" cy="247.8" r="3.6" fill="#FCE97A" fill-opacity="0.64"/><path class="mark" d="M1035.9 252.9 L1037.9 251.0 L1038.6 249.0 L1038.0 246.9 L1036.2 244.8 L1033.4 243.0 L1029.6 241.5 L1025.2 240.5 L1020.5 239.9 L1015.7 239.9 L1011.2 240.4 L1007.3 241.3 L1004.2 242.8 L1002.2 244.5 L1001.3 246.6 L1001.7 248.7 L1003.3 250.7 L1006.1 252.6 L1009.9 254.2 L1014.4 255.3 L1019.3 255.9 L1024.2 255.9 L1028.8 255.4 L1032.8 254.4 Z" fill="none" stroke="#FCE97A" stroke-width="2.6"/><circle class="start" cx="496.0" cy="407.7" r="3.6" fill="#FCE97A" fill-opacity="0.33"/><circle cx="538.6" cy="379.8" r="3.6" fill="#FCE97A" fill-opacity="0.34"/><circle cx="579.0" cy="354.1" r="3.6" fill="#FCE97A" fill-opacity="0.36"/><circle cx="617.4" cy="330.5" r="3.6" fill="#FCE97A" fill-opacity="0.37"/><circle cx="653.8" cy="308.7" r="3.6" fill="#FCE97A" fill-opacity="0.39"/><circle cx="688.3" cy="288.7" r="3.6" fill="#FCE97A" fill-opacity="0.40"/><circle cx="721.1" cy="270.3" r="3.6" fill="#FCE97A" fill-opacity="0.42"/><circle cx="752.3" cy="253.5" r="3.6" fill="#FCE97A" fill-opacity="0.44"/><circle cx="782.0" cy="238.1" r="3.6" fill="#FCE97A" fill-opacity="0.46"/><circle cx="810.2" cy="224.0" r="3.6" fill="#FCE97A" fill-opacity="0.48"/><circle cx="837.0" cy="211.2" r="3.6" fill="#FCE97A" fill-opacity="0.50"/><circle cx="862.6" cy="199.6" r="3.6" fill="#FCE97A" fill-opacity="0.51"/><circle cx="886.9" cy="189.1" r="3.6" fill="#FCE97A" fill-opacity="0.53"/><circle cx="910.1" cy="179.6" r="3.6" fill="#FCE97A" fill-opacity="0.56"/><circle cx="932.3" cy="171.4" r="3.6" fill="#FCE97A" fill-opacity="0.58"/><circle cx="953.3" cy="164.7" r="3.6" fill="#FCE97A" fill-opacity="0.60"/><circle cx="973.3" cy="159.6" r="3.6" fill="#FCE97A" fill-opacity="0.62"/><circle cx="992.4" cy="155.7" r="3.6" fill="#FCE97A" fill-opacity="0.64"/><circle cx="1010.5" cy="153.2" r="3.6" fill="#FCE97A" fill-opacity="0.66"/><circle cx="1027.7" cy="151.8" r="3.6" fill="#FCE97A" fill-opacity="0.69"/><circle cx="1044.1" cy="151.6" r="3.6" fill="#FCE97A" fill-opacity="0.71"/><circle cx="1059.6" cy="152.4" r="3.6" fill="#FCE97A" fill-opacity="0.73"/><circle cx="1074.3" cy="154.2" r="3.6" fill="#FCE97A" fill-opacity="0.75"/><circle cx="1088.2" cy="156.8" r="3.6" fill="#FCE97A" fill-opacity="0.78"/><circle cx="1101.4" cy="160.3" r="3.6" fill="#FCE97A" fill-opacity="0.80"/><circle cx="1113.9" cy="164.6" r="3.6" fill="#FCE97A" fill-opacity="0.83"/><circle cx="1125.7" cy="169.5" r="3.6" fill="#FCE97A" fill-opacity="0.85"/><path class="mark" d="M1136.1 172.0 L1137.0 171.1 L1137.2 170.1 L1136.6 169.1 L1135.2 168.1 L1133.2 167.1 L1130.7 166.4 L1127.9 165.9 L1125.0 165.6 L1122.1 165.6 L1119.4 165.8 L1117.2 166.3 L1115.5 167.0 L1114.5 167.9 L1114.3 168.9 L1114.9 170.0 L1116.2 171.0 L1118.2 171.9 L1120.7 172.7 L1123.5 173.2 L1126.5 173.5 L1129.5 173.6 L1132.2 173.3 L1134.5 172.8 Z" fill="none" stroke="#FCE97A" stroke-width="2.6"/><circle class="start" cx="580.7" cy="365.7" r="3.6" fill="#FF8A57" fill-opacity="0.36"/><circle cx="610.2" cy="329.6" r="3.6" fill="#FF8A57" fill-opacity="0.37"/><circle cx="638.1" cy="296.8" r="3.6" fill="#FF8A57" fill-opacity="0.39"/><circle cx="664.5" cy="267.1" r="3.6" fill="#FF8A57" fill-opacity="0.41"/><circle cx="689.4" cy="240.3" r="3.6" fill="#FF8A57" fill-opacity="0.42"/><circle cx="713.0" cy="216.1" r="3.6" fill="#FF8A57" fill-opacity="0.44"/><circle cx="735.4" cy="194.4" r="3.6" fill="#FF8A57" fill-opacity="0.46"/><circle cx="756.5" cy="175.0" r="3.6" fill="#FF8A57" fill-opacity="0.48"/><circle cx="776.5" cy="157.7" r="3.6" fill="#FF8A57" fill-opacity="0.50"/><circle cx="795.5" cy="142.4" r="3.6" fill="#FF8A57" fill-opacity="0.52"/><circle cx="813.4" cy="128.9" r="3.6" fill="#FF8A57" fill-opacity="0.54"/><circle cx="830.4" cy="117.1" r="3.6" fill="#FF8A57" fill-opacity="0.56"/><circle cx="846.6" cy="106.9" r="3.6" fill="#FF8A57" fill-opacity="0.58"/><circle cx="861.8" cy="98.1" r="3.6" fill="#FF8A57" fill-opacity="0.60"/><circle cx="876.3" cy="91.1" r="3.6" fill="#FF8A57" fill-opacity="0.63"/><circle cx="890.0" cy="85.8" r="3.6" fill="#FF8A57" fill-opacity="0.65"/><circle cx="903.1" cy="82.4" r="3.6" fill="#FF8A57" fill-opacity="0.67"/><circle cx="915.4" cy="80.5" r="3.6" fill="#FF8A57" fill-opacity="0.69"/><circle cx="927.0" cy="80.1" r="3.6" fill="#FF8A57" fill-opacity="0.72"/><circle cx="938.0" cy="81.0" r="3.6" fill="#FF8A57" fill-opacity="0.74"/><circle cx="948.5" cy="83.2" r="3.6" fill="#FF8A57" fill-opacity="0.77"/><circle cx="958.3" cy="86.6" r="3.6" fill="#FF8A57" fill-opacity="0.79"/><circle cx="967.6" cy="91.0" r="3.6" fill="#FF8A57" fill-opacity="0.81"/><circle cx="976.4" cy="96.4" r="3.6" fill="#FF8A57" fill-opacity="0.84"/><circle cx="984.7" cy="102.6" r="3.6" fill="#FF8A57" fill-opacity="0.86"/><circle cx="992.5" cy="109.7" r="3.6" fill="#FF8A57" fill-opacity="0.89"/><circle cx="999.8" cy="117.5" r="3.6" fill="#FF8A57" fill-opacity="0.92"/><path class="mark" d="M996.5 108.4 L1003.1 126.5 M990.8 120.8 L1008.9 114.2" stroke="#FF6B2C" stroke-width="2.4" stroke-linecap="round"/></g><path d="M742.6 217.7 L738.7 168.4 L1074.1 278.3 L1068.6 338.5 Z" fill="#F7F2EC" fill-opacity=".06" stroke="#F7F2EC" stroke-opacity=".4" stroke-width="2.5" stroke-linejoin="round"/></svg>
 <div class="wrap hero-grid">
 <div class="hero-copy">
 <p class="hero-app"><img src="/images/apps/pickle-up/icon-128.png" alt="" width="40" height="40"><span lang="en">Pickle Up</span></p>
@@ -182,11 +182,11 @@
 </div>
 </div>
 </footer>
-<script src="/assets/js/app-menu.js?v=40" defer></script>
-<script src="/assets/js/app-lang.js?v=40" defer></script>
+<script src="/assets/js/app-menu.js?v=41" defer></script>
+<script src="/assets/js/app-lang.js?v=41" defer></script>
 <script>document.querySelectorAll('[data-year]').forEach(function (el) { el.textContent = new Date().getFullYear(); });</script>
-<script src="/assets/js/app-carousel.js?v=40" defer></script>
-<script src="/assets/js/app-audio.js?v=40" defer></script>
-<script src="/assets/js/app-swipe.js?v=40" defer></script>
+<script src="/assets/js/app-carousel.js?v=41" defer></script>
+<script src="/assets/js/app-audio.js?v=41" defer></script>
+<script src="/assets/js/app-swipe.js?v=41" defer></script>
 </body>
 </html>

diff --git a/ja/apps/pickle-up/support/index.html b/ja/apps/pickle-up/support/index.html
@@ -27,7 +27,7 @@
 <link rel="preconnect" href="https://fonts.gstatic.com" crossorigin>
 <link href="https://fonts.googleapis.com/css2?family=Inter:wght@400;500;600;700;800&family=Noto+Sans+JP:wght@400;500;700;800&display=swap" rel="stylesheet">
 <link rel="stylesheet" href="https://cdnjs.cloudflare.com/ajax/libs/remixicon/4.6.0/remixicon.min.css">
-<link rel="stylesheet" href="/assets/css/apps/pickle-up.css?v=40">
+<link rel="stylesheet" href="/assets/css/apps/pickle-up.css?v=41">
 </head>
 <body class="page-doc">
 <header class="app-header">
@@ -78,7 +78,7 @@
 <button type="submit" class="button">メールで送る<i class="ri-mail-send-line" aria-hidden="true"></i></button>
 </form>
 </section>
-<script src="/assets/js/app-contact.js?v=40" defer></script>
+<script src="/assets/js/app-contact.js?v=41" defer></script>
 </div>
 </main>
 <footer class="app-footer">
@@ -109,8 +109,8 @@
 </div>
 </div>
 </footer>
-<script src="/assets/js/app-menu.js?v=40" defer></script>
-<script src="/assets/js/app-lang.js?v=40" defer></script>
+<script src="/assets/js/app-menu.js?v=41" defer></script>
+<script src="/assets/js/app-lang.js?v=41" defer></script>
 <script>document.querySelectorAll('[data-year]').forEach(function (el) { el.textContent = new Date().getFullYear(); });</script>
 </body>
 </html>

diff --git a/en/apps/pickle-up/support/index.html b/en/apps/pickle-up/support/index.html
@@ -27,7 +27,7 @@
 <link rel="preconnect" href="https://fonts.gstatic.com" crossorigin>
 <link href="https://fonts.googleapis.com/css2?family=Inter:wght@400;500;600;700;800&family=Noto+Sans+JP:wght@400;500;700;800&display=swap" rel="stylesheet">
 <link rel="stylesheet" href="https://cdnjs.cloudflare.com/ajax/libs/remixicon/4.6.0/remixicon.min.css">
-<link rel="stylesheet" href="/assets/css/apps/pickle-up.css?v=40">
+<link rel="stylesheet" href="/assets/css/apps/pickle-up.css?v=41">
 </head>
 <body class="page-doc">
 <header class="app-header">
@@ -78,7 +78,7 @@
 <button type="submit" class="button">Continue to email<i class="ri-mail-send-line" aria-hidden="true"></i></button>
 </form>
 </section>
-<script src="/assets/js/app-contact.js?v=40" defer></script>
+<script src="/assets/js/app-contact.js?v=41" defer></script>
 </div>
 </main>
 <footer class="app-footer">
@@ -109,8 +109,8 @@
 </div>
 </div>
 </footer>
-<script src="/assets/js/app-menu.js?v=40" defer></script>
-<script src="/assets/js/app-lang.js?v=40" defer></script>
+<script src="/assets/js/app-menu.js?v=41" defer></script>
+<script src="/assets/js/app-lang.js?v=41" defer></script>
 <script>document.querySelectorAll('[data-year]').forEach(function (el) { el.textContent = new Date().getFullYear(); });</script>
 </body>
 </html>

diff --git a/en/apps/pickle-up/privacy/index.html b/en/apps/pickle-up/privacy/index.html
@@ -27,7 +27,7 @@
 <link rel="preconnect" href="https://fonts.gstatic.com" crossorigin>
 <link href="https://fonts.googleapis.com/css2?family=Inter:wght@400;500;600;700;800&family=Noto+Sans+JP:wght@400;500;700;800&display=swap" rel="stylesheet">
 <link rel="stylesheet" href="https://cdnjs.cloudflare.com/ajax/libs/remixicon/4.6.0/remixicon.min.css">
-<link rel="stylesheet" href="/assets/css/apps/pickle-up.css?v=40">
+<link rel="stylesheet" href="/assets/css/apps/pickle-up.css?v=41">
 </head>
 <body class="page-doc">
 <header class="app-header">
@@ -180,8 +180,8 @@
 </div>
 </div>
 </footer>
-<script src="/assets/js/app-menu.js?v=40" defer></script>
-<script src="/assets/js/app-lang.js?v=40" defer></script>
+<script src="/assets/js/app-menu.js?v=41" defer></script>
+<script src="/assets/js/app-lang.js?v=41" defer></script>
 <script>document.querySelectorAll('[data-year]').forEach(function (el) { el.textContent = new Date().getFullYear(); });</script>
 </body>
 </html>

diff --git a/ja/apps/pickle-up/privacy/index.html b/ja/apps/pickle-up/privacy/index.html
@@ -27,7 +27,7 @@
 <link rel="preconnect" href="https://fonts.gstatic.com" crossorigin>
 <link href="https://fonts.googleapis.com/css2?family=Inter:wght@400;500;600;700;800&family=Noto+Sans+JP:wght@400;500;700;800&display=swap" rel="stylesheet">
 <link rel="stylesheet" href="https://cdnjs.cloudflare.com/ajax/libs/remixicon/4.6.0/remixicon.min.css">
-<link rel="stylesheet" href="/assets/css/apps/pickle-up.css?v=40">
+<link rel="stylesheet" href="/assets/css/apps/pickle-up.css?v=41">
 </head>
 <body class="page-doc">
 <header class="app-header">
@@ -180,8 +180,8 @@
 </div>
 </div>
 </footer>
-<script src="/assets/js/app-menu.js?v=40" defer></script>
-<script src="/assets/js/app-lang.js?v=40" defer></script>
+<script src="/assets/js/app-menu.js?v=41" defer></script>
+<script src="/assets/js/app-lang.js?v=41" defer></script>
 <script>document.querySelectorAll('[data-year]').forEach(function (el) { el.textContent = new Date().getFullYear(); });</script>
 </body>
 </html>

diff --git a/scripts/app_pages/build.py b/scripts/app_pages/build.py
@@ -16,7 +16,7 @@ LANGS = ('ja', 'en')
 OTHER = {'ja': 'en', 'en': 'ja'}
 LANG_LABEL = {'ja': '日本語', 'en': 'English'}
 OG_LOCALE = {'ja': 'ja_JP', 'en': 'en_US'}
-CSS_VERSION = 40
+CSS_VERSION = 41
 
 
 def read(path):
@@ -451,7 +451,7 @@ def court_lines_svg(at_x=780, at_y=400):
             f'<path class="lines" d="{net}" fill="none" stroke="currentColor" stroke-width="3" stroke-linejoin="round" stroke-linecap="round"/></svg>')
 
 
-def hero_court_svg(side=3.0, back=-3.0, up=6.5, x0=860, y0=240, scale=920, shots=None):
+def hero_court_svg(side=5.0, back=-3.0, up=6.5, x0=900, y0=240, scale=920, shots=None):
     # The hero's picture: a big court at the app's 3D angle (up behind the near right corner, looking at the
     # net), with three of your shots as the app marks them: a drop into the back of the far kitchen and a deep
     # ball to the far right back (yellow rings, in), and one long past the baseline (an orange x, out).
@@ -500,9 +500,9 @@ def hero_court_svg(side=3.0, back=-3.0, up=6.5, x0=860, y0=240, scale=920, shots
         return f'<path class="mark" d="M{pts(ps)} Z" fill="none" stroke="{BALL}" stroke-width="2.6"/>'
 
     # (hit, landing, highest point m, where it peaks, out, ring radius m)
-    shots = shots or [((1.75, 4.0), (4.3, 8.3), 1.8, .4, False, .3),     # the drop
-                      ((2.5, 1.25), (5.15, 12.2), 1.6, .5, False, .22),  # the deep ball
-                      ((4.75, .25), (1.8, 14.6), 2.2, .5, True, .3)]     # the long one, out
+    shots = shots or [((4.5, 1.25), (4.25, 8.6875), 1.8, .4, False, .3),  # the drop
+                      ((3.0, .5), (4.0, 13.0), 1.6, .5, False, .22),      # the deep ball
+                      ((3.0, 1.5), (.25, 14.25), 2.2, .5, True, .3)]      # the long one, out
     out.append('<g class="hero-shots">')
     for hit, end, top, peak, miss, rad in shots:
         dots = list(flight(hit, end, top, peak))
